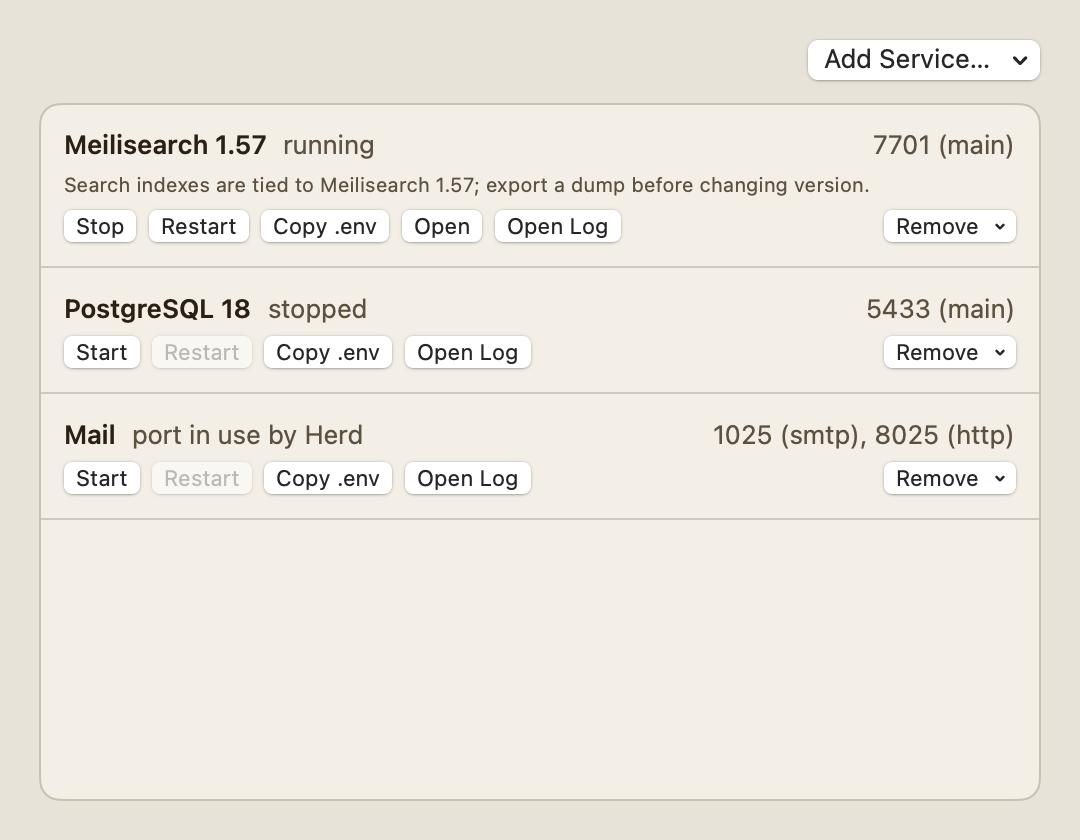
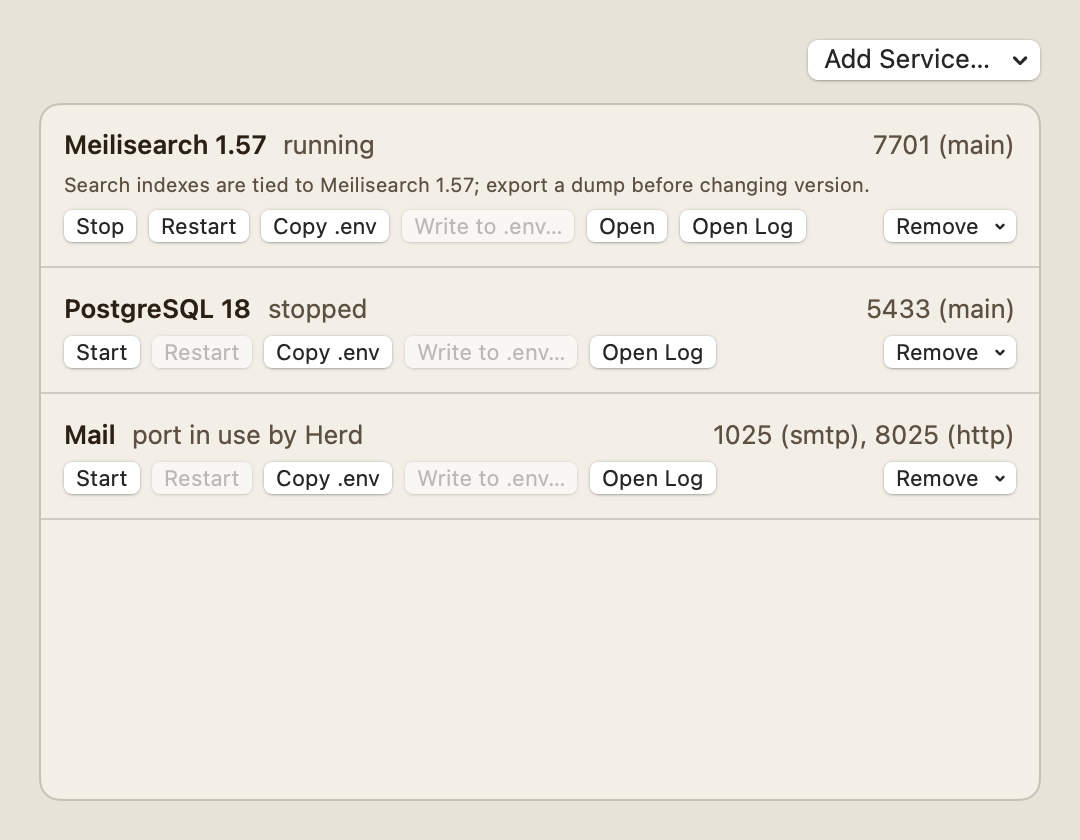
Add Write to .env… to Settings → Services

diff --git a/Sources/PaddockApp/Settings/ServicesTab.swift b/Sources/PaddockApp/Settings/ServicesTab.swift
@@ -7,6 +7,9 @@ struct ServicesTab: View {
     /// The service whose `Create Database…` sheet is open.
     @SwiftUI.State private var databaseFor: String?
     @SwiftUI.State private var databaseName = ""
+    /// The service whose **Write to .env…** sheet is open, and the site it will write into.
+    @SwiftUI.State private var envFor: String?
+    @SwiftUI.State private var envSite: String?
 
     var body: some View {
         VStack(alignment: .leading, spacing: 12) {
@@ -29,6 +32,9 @@ struct ServicesTab: View {
                         ServiceRowView(row: row, createDatabase: {
                             databaseName = ""
                             databaseFor = row.id
+                        }, writeEnv: {
+                            envSite = model.sites.first?.name
+                            envFor = row.id
                         })
                         Divider()
                     }
@@ -63,6 +69,9 @@ struct ServicesTab: View {
         }
         .sheet(isPresented: Binding(get: { databaseFor != nil }, set: { if !$0 { databaseFor = nil } })) {
             createDatabaseSheet
+        }
+        .sheet(isPresented: Binding(get: { envFor != nil }, set: { if !$0 { envFor = nil } })) {
+            writeEnvSheet
         }
     }
 
@@ -109,6 +118,38 @@ struct ServicesTab: View {
         .padding(20)
         .frame(width: 360)
     }
+
+    private var writeEnvSheet: some View {
+        VStack(alignment: .leading, spacing: 12) {
+            Text(verbatim: "Wire \(model.serviceRows.first { $0.id == envFor }?.name ?? "") into a site's .env")
+                .font(.headline)
+            if model.sites.isEmpty {
+                Caption("No sites yet.")
+            } else {
+                Picker("Site", selection: $envSite) {
+                    ForEach(model.sites) { site in
+                        Text(verbatim: site.host).tag(Optional(site.name))
+                    }
+                }
+                .fixedSize()
+            }
+            HStack {
+                Spacer()
+                Button("Cancel") { envFor = nil }
+                    .keyboardShortcut(.cancelAction)
+                Button("Write") {
+                    guard let id = envFor, let name = envSite,
+                          let site = model.sites.first(where: { $0.name == name }) else { return }
+                    envFor = nil
+                    Task { await model.writeEnv(id, into: site) }
+                }
+                .keyboardShortcut(.defaultAction)
+                .disabled(envSite == nil)
+            }
+        }
+        .padding(20)
+        .frame(width: 360)
+    }
 }
 
 /// One service: name, state and ports, its notes, and its actions.
@@ -117,6 +158,7 @@ struct ServiceRowView: View {
     @Environment(\.openWindow) private var openWindow
     let row: ServiceRow
     let createDatabase: () -> Void
+    let writeEnv: () -> Void
 
     var body: some View {
         VStack(alignment: .leading, spacing: 6) {
@@ -137,6 +179,8 @@ struct ServiceRowView: View {
                 Button("Restart") { Task { await model.restartService(row.id) } }
                     .disabled(!row.canStop)
                 Button("Copy .env") { Task { await model.copyEnv(row.id) } }
+                Button("Write to .env…", action: writeEnv)
+                    .disabled(model.sites.isEmpty)
                 if row.canOpen {
                     Button("Open") {
                         if row.opensMailWindow {

diff --git a/Tests/PaddockCoreTests/AppModelTests.swift b/Tests/PaddockCoreTests/AppModelTests.swift
@@ -991,6 +991,49 @@ extension AppModelTests {
         XCTAssertTrue(otherClient.requests.contains(.serviceEnv(id: "meilisearch-1-57")))
     }
 
+    /// Write to .env… fetches the full lines and writes them into the chosen site's `.env`, saying what changed
+    /// by key name only: nothing goes to the pasteboard and no value is kept or shown.
+    func testWriteEnvUpdatesTheSitesFileAndNamesTheKeys() async throws {
+        let folder = FileManager.default.temporaryDirectory
+            .appendingPathComponent("pdk writeenv-\(UUID().uuidString)", isDirectory: true)
+        try FileManager.default.createDirectory(at: folder, withIntermediateDirectories: true)
+        addTeardownBlock { try? FileManager.default.removeItem(at: folder) }
+        try Data("DB_HOST=old\n".utf8).write(to: folder.appendingPathComponent(".env"))
+        let full = ["DB_HOST=127.0.0.1", "MEILISEARCH_KEY=\(secretKey)"]
+        let (model, client, outside) = servicesModel { request in
+            if case .serviceEnv = request { return .envLines(full) }
+            return .ok(statusWith(services: [meili]))
+        }
+        await model.refresh()
+        let site = Site(name: "shop", path: folder.path, kind: .parked, secured: false, php: v85, pinned: false)
+        await model.writeEnv("meilisearch-1-57", into: site)
+        XCTAssertEqual(client.requests.filter { $0 != .status }, [.serviceEnv(id: "meilisearch-1-57")])
+        XCTAssertEqual(try String(contentsOf: folder.appendingPathComponent(".env"), encoding: .utf8),
+                       "DB_HOST=127.0.0.1\nMEILISEARCH_KEY=\(secretKey)\n")
+        XCTAssertEqual(model.serviceNotice,
+                       "Wired Meilisearch 1.57 into shop.test's .env: added MEILISEARCH_KEY; updated DB_HOST.")
+        XCTAssertEqual(outside.copied, [], "nothing goes to the pasteboard")
+        XCTAssertFalse((model.serviceNotice ?? "").contains(secretKey))
+        XCTAssertNil(model.lastError)
+    }
+
+    func testWriteEnvIntoASiteWithoutAnEnvFileSaysWhyItRefused() async throws {
+        let folder = FileManager.default.temporaryDirectory
+            .appendingPathComponent("pdk writeenv-\(UUID().uuidString)", isDirectory: true)
+        try FileManager.default.createDirectory(at: folder, withIntermediateDirectories: true)
+        addTeardownBlock { try? FileManager.default.removeItem(at: folder) }
+        let (model, _, _) = servicesModel { request in
+            if case .serviceEnv = request { return .envLines(["A=1"]) }
+            return .ok(statusWith(services: [meili]))
+        }
+        let site = Site(name: "shop", path: folder.path, kind: .parked, secured: false, php: v85, pinned: false)
+        await model.writeEnv("meilisearch-1-57", into: site)
+        XCTAssertEqual(model.serviceNotice,
+                       "shop.test has no .env. Create one from .env.example first; "
+                       + "Paddock won't write secrets into a new file.")
+        XCTAssertFalse(FileManager.default.fileExists(atPath: folder.appendingPathComponent(".env").path))
+    }
+
     func testOpenOpensTheServicesPageOnlyWhenItHasOne() async {
         let (model, _, outside) = servicesModel { _ in .ok(statusWith(services: [mail, postgres])) }
         await model.refresh()

diff --git a/Sources/PaddockCore/App/AppModel+Services.swift b/Sources/PaddockCore/App/AppModel+Services.swift
@@ -194,6 +194,21 @@ extension AppModel {
         }
     }
 
+    /// Writes the service's full `.env` lines into `site`'s `.env`, updating its keys in place. The notice names
+    /// the keys that changed; no value is shown or kept.
+    public func writeEnv(_ id: String, into site: Site) async {
+        let name = serviceName(id)
+        guard case .envLines(let lines)? = await act(.serviceEnv(id: id), timeout: 30) else { return }
+        do {
+            let result = try EnvFile.wire(lines, intoSiteAt: site.path)
+            showNotice(Messages.envWiringResult(result, service: name, host: site.host))
+        } catch let problem as EnvFile.Problem {
+            showNotice(Messages.envWiringProblem(problem, host: site.host))
+        } catch {
+            showNotice(Messages.couldntWriteEnvFile(site.host, reason: error.localizedDescription))
+        }
+    }
+
     public func openService(_ id: String) {
         guard let row = serviceRows.first(where: { $0.id == id }), row.canOpen,
               let page = status?.services.first(where: { $0.id == id })?.openURL, let url = URL(string: page) else { return }

diff --git a/README.md b/README.md
@@ -199,7 +199,7 @@ General, PHP, Sites, Services and Tasks.
 
 <p align="center">
   <img src="docs/images/settings-sites-light.png" width="420" alt="The Sites tab: each site with a Secure checkbox and a PHP version picker">
-  <img src="docs/images/settings-services-light.png" width="420" alt="The Services tab: Meilisearch, PostgreSQL and Mail with Start, Stop, Restart, Copy .env and Remove">
+  <img src="docs/images/settings-services-light.png" width="420" alt="The Services tab: Meilisearch, PostgreSQL and Mail with Start, Stop, Restart, Copy .env, Write to .env and Remove">
 </p>
 <p align="center">
   <img src="docs/images/settings-tasks-running-light.png" width="420" alt="The Tasks tab: a site's queue, scheduler and websocket tasks with their state">
